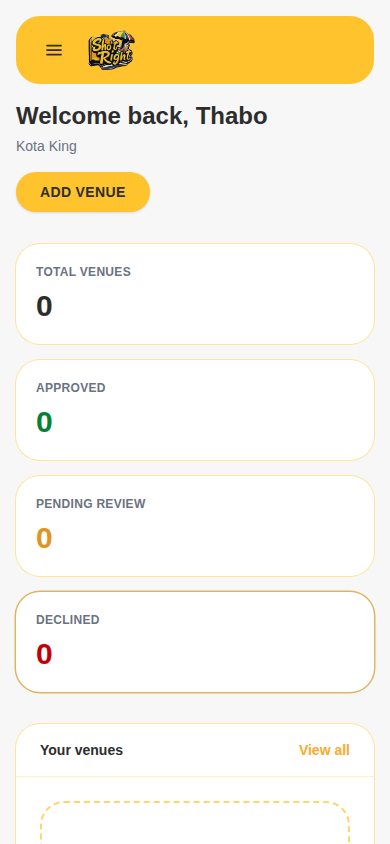
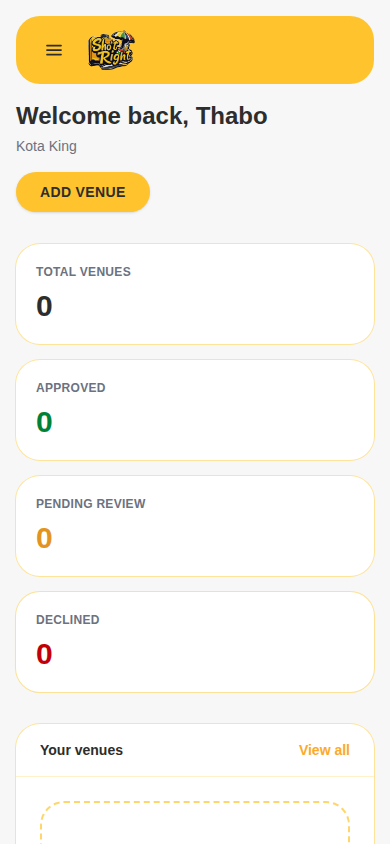
Login could report a session it had no token for
Reported: "not seeing the OTP screen — login goes straight through to the
dashboard."

OTP lives on REGISTRATION, so an existing account signing in will never see it,
and that part is working as designed. But the report uncovered a real hole.

`login` never branched on `otp_required`. With verification live, a bench can
answer login for an unverified account with {otp_required: true} and NO token —
the credentials were right, there is just a step left. setAuthToken correctly
refuses a response with no api_key, so the token ended up null, and then the
store set status: 'authenticated' regardless. Straight to a dashboard with
nothing to authenticate with, every call behind it failing.

`register` has guarded against exactly this since the OTP work landed. Login did
not, because at the time login could not return that shape. Now it can.

Three things changed. login() returns {otpRequired, email} on that response, the
Login view routes to /verify carrying the address so a code can be resent, and
the store refuses to move to 'authenticated' for ANY response that came back
without a usable token — "authenticated" is a claim about holding credentials,
and making it without them produces a portal that looks signed in and fails
everything.

Tests first: the fake bench now models an unverified login (bench.loginNeedsOtp),
and three new checks failed before the fix — verification instead of dashboard,
no dashboard call at all, and finishing the code lets them in.
[…]

Changed region(s): [[0.9538, 0.7085, 0.9846, 0.8009], [0.0308, 0.7085, 0.0615, 0.8009]]

diff --git a/src/test/login.test.jsx b/src/test/login.test.jsx
@@ -94,3 +94,62 @@ describe('login', () => {
     )
   })
 })
+
+/**
+ * An account that exists but has not verified its email.
+ *
+ * REPORTED 28 Jul: "not seeing the OTP screen — login goes straight through to
+ * the dashboard."
+ *
+ * OTP lives on registration, so a partner who already has an account will never
+ * see it at login, and that is correct. But there is a real hole underneath the
+ * report: `login` never branched on `otp_required`. `setAuthToken` refuses a
+ * response with no api_key, so the token ended up null — and then the store set
+ * `status: 'authenticated'` anyway. Straight to a dashboard where every
+ * subsequent call has no credentials.
+ *
+ * `register` has guarded against exactly this since the OTP work landed. Login
+ * did not, because at the time login could not return that shape. Now it can.
+ */
+describe('login for an unverified account', () => {
+  it('sends them to verification instead of the dashboard', async () => {
+    bench.loginNeedsOtp = true
+    bench.users[0].enabled = false
+    const { user } = renderApp({ route: '/login' })
+
+    await user.type(await screen.findByLabelText(/email/i), 'thabo@cornerkitchen.co.za')
+    await user.type(screen.getByLabelText(/password/i), 'correct-horse')
+    await user.click(screen.getByRole('button', { name: /login/i }))
+
+    expect(await screen.findByLabelText(/verification code/i)).toBeInTheDocument()
+    expect(screen.queryByRole('heading', { name: /welcome back/i })).not.toBeInTheDocument()
+  })
+
+  it('never reports a session it has no token for', async () => {
+    /* The specific failure: authenticated with nothing to authenticate with. */
+    bench.loginNeedsOtp = true
+    bench.users[0].enabled = false
+    const { user } = renderApp({ route: '/login' })
+
+    await user.type(await screen.findByLabelText(/email/i), 'thabo@cornerkitchen.co.za')
+    await user.type(screen.getByLabelText(/password/i), 'correct-horse')
+    await user.click(screen.getByRole('button', { name: /login/i }))
+    await screen.findByLabelText(/verification code/i)
+
+    expect(bench.calls.some((c) => c.method === 'get_vendor_dashboard')).toBe(false)
+  })
+
+  it('lets them finish verifying and then come in', async () => {
+    bench.loginNeedsOtp = true
+    bench.users[0].enabled = false
+    const { user } = renderApp({ route: '/login' })
+
+    await user.type(await screen.findByLabelText(/email/i), 'thabo@cornerkitchen.co.za')
+    await user.type(screen.getByLabelText(/password/i), 'correct-horse')
+    await user.click(screen.getByRole('button', { name: /login/i }))
+
+    await user.type(await screen.findByLabelText(/verification code/i), '123456')
+
+    expect(await screen.findByRole('heading', { name: /welcome back/i })).toBeInTheDocument()
+  })
+})

diff --git a/src/services/vendor.js b/src/services/vendor.js
@@ -83,11 +83,28 @@ export const __resetCapabilities = () => {
 
 /* --------------------------------------------------------------------- auth */
 
-/** Exchanges credentials for a reusable api_key/api_secret pair. */
+/**
+ * Exchanges credentials for a reusable api_key/api_secret pair.
+ *
+ * ⚠ 28 Jul — the same capability branch `register` has had since the OTP work,
+ * missing here because at the time login could not return this shape.
+ *
+ * With verification live, a bench can answer login for an unverified account
+ * with `{otp_required: true}` and NO token: the credentials were right, there
+ * is just a step left. `setAuthToken` correctly refuses a response with no
+ * api_key — but the store went on to set `status: 'authenticated'` anyway, so
+ * the partner landed on a dashboard with nothing to authenticate with, and
+ * every call behind it failed.
+ *
+ * Reported as "login goes straight through to the dashboard".
+ */
 export const login = (email, password) =>
   pick(
     async () => {
       const result = await call('shotright.api.login', { email, password })
+      if (result?.otp_required) {
+        return { otpRequired: true, email: result.email || email }
+      }
       setAuthToken(result)
       return result
     },

diff --git a/src/store/authStore.js b/src/store/authStore.js
@@ -1,5 +1,6 @@
 import { create } from 'zustand'
 import * as vendorApi from '../services/vendor'
+import { hasAuthToken } from '../services/api'
 
 /**
  * Session state. `status` is deliberately three-valued: 'unknown' means we have
@@ -24,8 +25,22 @@ export const useAuthStore = create((set) => ({
     }
   },
 
+  /**
+   * Sign in.
+   *
+   * Returns `{otpRequired: true, email}` when the account exists but has not
+   * verified its email — same contract as `register`. The store must NOT move
+   * to 'authenticated' for it, and must not do so for any response that came
+   * back without a usable token either: "authenticated" is a claim about
+   * having credentials, and making it without them produces a portal that
+   * looks signed in and fails every request.
+   */
   async login(email, password) {
     const session = await vendorApi.login(email, password)
+    if (session?.otpRequired) return session
+    if (!hasAuthToken()) {
+      throw new Error('We couldn’t sign you in. Please try again.')
+    }
     set({
       status: 'authenticated',
       user: session.user,

diff --git a/src/test/server.js b/src/test/server.js
@@ -113,7 +113,18 @@ const apiHandlers = [
     if (!user || user.password !== password) {
       return validationError('Invalid login credentials')
     }
-    if (!user.enabled) return validationError('User is disabled')
+    /**
+     * An account that exists but has not verified its email.
+     *
+     * With OTP live, a bench can answer login with `otp_required` and NO token
+     * rather than a hard error — the credentials were right, there is just a
+     * step left. Modelled because the portal has to handle it: treating it as a
+     * session drops someone on a dashboard where every call fails.
+     */
+    if (!user.enabled) {
+      if (bench.loginNeedsOtp) return ok({ otp_required: true, email: user.email })
+      return validationError('User is disabled')
+    }
     bench.session = user.email
     return ok({ api_key: 'KEY', api_secret: 'SECRET', user: user.email })
   }),

diff --git a/src/views/guest/Login.jsx b/src/views/guest/Login.jsx
@@ -32,7 +32,13 @@ export default function Login() {
     setBusy(true)
     setError(null)
     try {
-      await login(email, password)
+      const result = await login(email, password)
+      // An account that exists but hasn't verified. Same destination as
+      // registration, carrying the address so the code can be resent.
+      if (result?.otpRequired) {
+        navigate('/verify', { replace: true, state: { email: result.email } })
+        return
+      }
       navigate(location.state?.from || '/', { replace: true })
     } catch (err) {
       setError(err.message)

diff --git a/src/test/bench.js b/src/test/bench.js
@@ -79,6 +79,8 @@ const initial = () => ({
 
   /** Registration path: true makes register_vendor return otp_required. */
   otpRequired: false,
+  /** Login path: an unverified account answers with otp_required, not an error. */
+  loginNeedsOtp: false,
   otpCode: '123456',
 
   /** Which kwargs each method actually declares. Anything else is DROPPED. */

diff --git a/docs/BACKEND-ASKS.md b/docs/BACKEND-ASKS.md
@@ -363,6 +363,21 @@ them never reach customer search.
 > 3. **Anything else** on the template list that is now genuinely sending.
 >
 > Tell us which of those are real and we will wire each to its own signal.
+>
+> **One question about login.** OTP lives on REGISTRATION, so a partner who
+> already has an account goes straight in — correct, and probably what you're
+> seeing if you tested with an existing login.
+>
+> But it exposed a hole on our side, now fixed: `login` never branched on
+> `otp_required`. If your bench answers login for an *unverified* account with
+> `{otp_required: true}` and no token, we used to set "authenticated" anyway and
+> drop the partner on a dashboard with nothing to authenticate with. Login now
+> routes to the verification screen exactly as registration does, and refuses to
+> claim a session it has no token for.
+>
+> **So: what does `login` return for an account that exists but hasn't verified?**
+> `otp_required`, or a hard error? We handle both, but we'd rather know than
+> infer.
 
 📄 `docs/EMAIL-SETUP.md`
 
